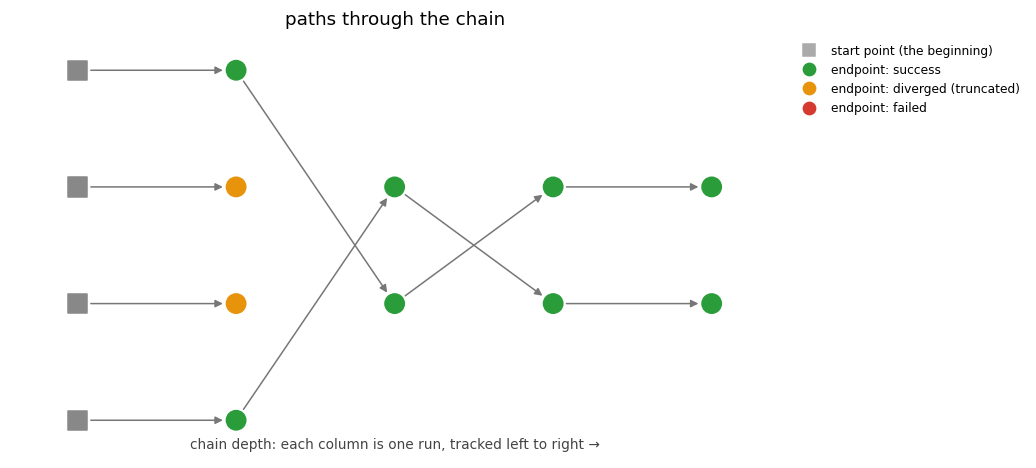
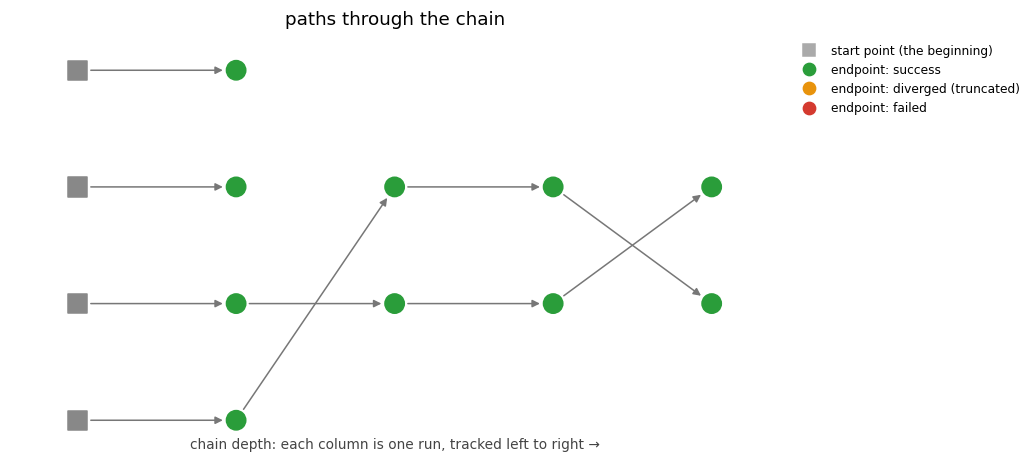
fix(endgames): security truncation only in the operating zone (cyclic-6 residual)
After dropping the pole-growth truncation, cyclic-6 still lost ONE finite solution
on ~half the seeds (155/156): one path converging to a finite root has an
endgame-boundary loop that transiently encloses a branch point, so its early Cauchy
mean is garbage-LARGE for a round or two -- and the endpoint security check truncated
on that garbage.

Fix (user's framing): only start security truncation IN THE OPERATING ZONE -- outside
it the loop may encircle a pole/branch point and the mean is untrustworthy, so its
norm means nothing.  The security max-norm check is now gated on in_operating_zone in
both variants; an out-of-zone round restarts the two-consecutive-rounds count.  A
genuinely-infinite endpoint is in-zone AND large (clean homogeneous convergence), so
it still truncates honestly; the transient garbage rounds are out-of-zone and skipped.

Consequence, per the user's semantics: at security level 0 an at-infinity path may
EITHER truncate (diverged) OR converge to an infinite endpoint (success, classified
infinite) -- both valid, non-deterministic.  Tests reframed to the robust invariant:
- path_status_vocabulary_is_success_diverged_failed: pins CoarsePathStatus directly
  (Success->success, GoingToInfinity/SecurityMaxNormReached->diverged, else->failed),
  so the diverged-not-failed regression holds regardless of what a solve produces.
- at_infinity_paths_are_success_or_diverged_never_failed: every path is an answer
[…]

diff --git a/core/include/bertini2/endgames/cauchy.hpp b/core/include/bertini2/endgames/cauchy.hpp
@@ -1307,11 +1307,9 @@ public:
 		// pole-annihilation case -- a Laurent pole whose Cauchy mean is a STATIONARY
 		// FINITE number, which no norm check can catch -- is handled separately by the
 		// pole-component operating-zone check below, so this check need only see honest
-		// infinity.  Initialized to 0 so the check never reads indeterminate values.
+		// infinity.  Tracked across consecutive IN-ZONE rounds only (see below);
+		// initialized to 0 so the check never reads indeterminate values.
 		RealT norm_of_dehom_prev(0), norm_of_dehom_latest(0);
-
-		if(this->SecuritySettings().level <= 0)
-			norm_of_dehom_prev = this->GetSystem().InfinityNormOfDehomogenized(prev_approx);
 
 		// Cycle-number consistency: refuse to accept a converged approximation until the cycle number
 		// has reported the SAME value for num_consecutive_same_cycle_number consecutive approximations.
@@ -1366,20 +1364,32 @@ public:
 				return SuccessCode::Success;
 			}
 
+			// Security truncation happens ONLY in the operating zone.  Outside it the
+			// loop may encircle a pole or branch point and the Cauchy mean is garbage --
+			// its norm means nothing, and truncating on it killed clean convergent paths
+			// (the cyclic-6 residual, 156 -> 155).  Inside the zone the mean is
+			// trustworthy: a genuinely-infinite endpoint is in-zone AND large (clean
+			// homogeneous convergence, the endpoint growing to infinity faster than any
+			// sample), so two consecutive IN-ZONE rounds above max_norm truncate honestly.
+			// An out-of-zone round restarts the two-consecutive count.
 			if (this->SecuritySettings().level <= 0)
-			{//the endpoint out of bounds twice running: the path is diverging; truncate.
-				norm_of_dehom_latest = this->GetSystem().InfinityNormOfDehomogenized(latest_approx);
-
-				if (norm_of_dehom_prev   > this->SecuritySettings().max_norm &&
-					norm_of_dehom_latest > this->SecuritySettings().max_norm  )
+			{
+				if (in_operating_zone)
 				{
-					NotifyObservers(SecurityMaxNormReached<EmitterType>(*this));
-					return SuccessCode::SecurityMaxNormReached;
+					norm_of_dehom_latest = this->GetSystem().InfinityNormOfDehomogenized(latest_approx);
+					if (norm_of_dehom_prev   > this->SecuritySettings().max_norm &&
+						norm_of_dehom_latest > this->SecuritySettings().max_norm  )
+					{
+						NotifyObservers(SecurityMaxNormReached<EmitterType>(*this));
+						return SuccessCode::SecurityMaxNormReached;
+					}
+					norm_of_dehom_prev = norm_of_dehom_latest;
 				}
+				else
+					norm_of_dehom_prev = RealT(0);   // out of zone: restart the count
 			}
 
 			prev_approx = latest_approx;
-			norm_of_dehom_prev = norm_of_dehom_latest;
 
 			auto advance_success = AdvanceTime<ComplexT>(target_time);
 			if (advance_success != SuccessCode::Success)
@@ -1460,12 +1470,11 @@ public:
 		//      The approximations live in BCT, so the per-iteration bookkeeping arithmetic is mpfr -- one
 		//      small vector op next to the tracking, which itself stays in the fast lane. ----
 		// the security check watches the extrapolated ENDPOINT for honest divergence to
-		// infinity (which grows faster than any finite loop sample); acceptance is gated
-		// on the pole-component operating-zone measurement, which handles the
-		// finite-mean pole case -- see RunImpl for the full reasoning
+		// infinity (which grows faster than any finite loop sample), but ONLY in the
+		// operating zone (a trustworthy mean) -- see RunImpl for the full reasoning.
+		// Acceptance is gated on the same operating-zone measurement (the finite-mean
+		// pole case).  Tracked across consecutive in-zone rounds; starts at 0.
 		RealT norm_of_dehom_prev(0), norm_of_dehom_latest(0);
-		if (this->SecuritySettings().level <= 0)
-			norm_of_dehom_prev = this->GetSystem().InfinityNormOfDehomogenized(this->previous_approximation_);
 
 		unsigned prev_cycle = 0, same_cycle_count = 0;
 
@@ -1499,19 +1508,26 @@ public:
 				return SuccessCode::Success;
 			}
 
+			// security truncation ONLY in the operating zone (a trustworthy mean); an
+			// out-of-zone round restarts the two-consecutive count.  See RunImpl.
 			if (this->SecuritySettings().level <= 0)
 			{
-				norm_of_dehom_latest = this->GetSystem().InfinityNormOfDehomogenized(this->final_approximation_);
-				if (norm_of_dehom_prev   > this->SecuritySettings().max_norm &&
-				    norm_of_dehom_latest > this->SecuritySettings().max_norm)
+				if (in_operating_zone)
 				{
-					NotifyObservers(SecurityMaxNormReached<EmitterType>(*this));
-					return SuccessCode::SecurityMaxNormReached;
+					norm_of_dehom_latest = this->GetSystem().InfinityNormOfDehomogenized(this->final_approximation_);
+					if (norm_of_dehom_prev   > this->SecuritySettings().max_norm &&
+					    norm_of_dehom_latest > this->SecuritySettings().max_norm)
+					{
+						NotifyObservers(SecurityMaxNormReached<EmitterType>(*this));
+						return SuccessCode::SecurityMaxNormReached;
+					}
+					norm_of_dehom_prev = norm_of_dehom_latest;
 				}
+				else
+					norm_of_dehom_prev = RealT(0);   // out of zone: restart the count
 			}
 
 			this->previous_approximation_ = this->final_approximation_;
-			norm_of_dehom_prev = norm_of_dehom_latest;
 
 			auto advance_code = AdvanceTimeAMP(target_time);
 			if (advance_code != SuccessCode::Success)

diff --git a/core/test/nag_algorithms/zero_dim_records.cpp b/core/test/nag_algorithms/zero_dim_records.cpp
@@ -301,16 +301,36 @@ BOOST_AUTO_TEST_CASE(different_seed_is_a_different_ask)
 	BOOST_CHECK_EQUAL(runs, 2u);   // two asks, two run headers, one directory
 }
 
-// Named regression (user, 2026-07-03): a path the endgame truncates near infinity is a
-// VERDICT, not a failure -- the records must say "diverged", never "failed", or a
-// cyclic5 audit shows 50 phantom failures.  And diverged paths recall like any other:
-// every tracked path is in the store, so fails/divergences are auditable and memoized.
-BOOST_AUTO_TEST_CASE(diverged_paths_are_recorded_as_diverged_not_failed)
+// The coarse status VOCABULARY, pinned directly (independent of which paths a solve
+// happens to truncate): a path is `success` (converged -- to a finite root OR to an
+// infinite endpoint), `diverged` (went to infinity -- a clean GoingToInfinity verdict
+// or a security truncation near infinity), or `failed` (the tracker gave up).  A
+// truncated path must be `diverged`, never `failed` (regression: a cyclic5 audit once
+// showed 50 phantom failures from mis-bucketing truncations).
+BOOST_AUTO_TEST_CASE(path_status_vocabulary_is_success_diverged_failed)
 {
-	auto const dir = FreshDir("diverged");
+	using records::CoarsePathStatus;
+	BOOST_CHECK_EQUAL(CoarsePathStatus(SuccessCode::Success), "success");
+	BOOST_CHECK_EQUAL(CoarsePathStatus(SuccessCode::GoingToInfinity), "diverged");
+	BOOST_CHECK_EQUAL(CoarsePathStatus(SuccessCode::SecurityMaxNormReached), "diverged");
+	// anything else the tracker/endgame reports is a failure to converge
+	BOOST_CHECK_EQUAL(CoarsePathStatus(SuccessCode::FailedToConverge), "failed");
+	BOOST_CHECK_EQUAL(CoarsePathStatus(SuccessCode::HigherPrecisionNecessary), "failed");
+}
+
+// Named regression (user, 2026-07-03..07): every tracked path near infinity is an
+// ANSWER, never a `failed`.  At security level 0, an at-infinity path may EITHER
+// truncate (`diverged`) OR converge to an infinite endpoint (`success`, classified
+// infinite) -- both outcomes are valid and which happens depends on the endgame's
+// exact convergence.  So the invariant is robust: no path is lost or `failed`, every
+// path is success-or-diverged, and every path recalls.
+BOOST_AUTO_TEST_CASE(at_infinity_paths_are_success_or_diverged_never_failed)
+{
+	auto const dir = FreshDir("at_infinity");
 
 	// {x*y - 1, x^2 - 1}: total degree 4 paths, exactly 2 finite solutions
-	// ((1,1) and (-1,-1)) -- the other 2 paths head to infinity
+	// ((1,1) and (-1,-1)) -- the other 2 head to infinity (each either truncates as
+	// diverged, or converges to an infinite endpoint recorded as success)
 	SetGlobalSeed(42);
 	auto x = Variable::Make("x");
 	auto y = Variable::Make("y");
@@ -321,23 +341,15 @@ BOOST_AUTO_TEST_CASE(diverged_paths_are_recorded_as_diverged_not_failed)
 
 	ZD zd(sys);
 	zd.DefaultSetup();
-	// The security check watches the dehomogenized ENDPOINT for divergence to infinity;
-	// the two at-infinity paths of this patched solve have endpoints genuinely at
-	// infinity, so they truncate as `diverged`.  A tightened max_norm (50) makes the
-	// verdict robust regardless of the endgame's exact convergence path.  This test is
-	// about the diverged-vs-failed VOCABULARY; settings are ask identity, so the recall
-	// rerun below must set the same value.
-	endgame::SecurityConfig sec;
-	sec.max_norm = 50;
-	zd.GetEndgame().Set(sec);
 	zd.RecordTo(std::make_shared<records::OutputDirectory>(dir));
 	zd.Solve();
 
-	unsigned successes = 0, diverged = 0, failed = 0;
+	unsigned paths = 0, successes = 0, diverged = 0, failed = 0;
 	for (auto const& rec : zd.Records()->ResultsOf(zd.RecordsRunId()))
 	{
 		if (std::string(rec.at("kind").as_string()) != "path")
 			continue;
+		++paths;
 		auto const status = std::string(rec.at("status").as_string());
 		if (status == "success") ++successes;
 		if (status == "diverged") ++diverged;
@@ -346,11 +358,12 @@ BOOST_AUTO_TEST_CASE(diverged_paths_are_recorded_as_diverged_not_failed)
 		BOOST_CHECK(rec.contains("endgame_success_code_name"));
 		BOOST_CHECK(rec.contains("pre_endgame_success_code_name"));
 	}
-	BOOST_CHECK_EQUAL(successes, 2u);
-	BOOST_CHECK_EQUAL(diverged, 2u);
-	BOOST_CHECK_EQUAL(failed, 0u);
+	BOOST_CHECK_EQUAL(paths, 4u);            // every total-degree path is recorded
+	BOOST_CHECK_EQUAL(failed, 0u);           // none FAILED -- the load-bearing invariant
+	BOOST_CHECK_EQUAL(successes + diverged, 4u);   // each is an answer: converged or diverged
+	BOOST_CHECK_GE(successes, 2u);           // at least the two finite roots converge
 
-	// diverged paths are answers: a rerun recalls ALL of them, recomputing none
+	// every path is an answer in the store: a rerun recalls ALL of them, computing none
 	SetGlobalSeed(42);
 	auto x2 = Variable::Make("x");
 	auto y2 = Variable::Make("y");
@@ -360,7 +373,6 @@ BOOST_AUTO_TEST_CASE(diverged_paths_are_recorded_as_diverged_not_failed)
 	sys_again.AddVariableGroup(VariableGroup{x2, y2});
 	ZD again(sys_again);
 	again.DefaultSetup();
-	again.GetEndgame().Set(sec);   // same ask: settings are part of the recall identity
 	again.RecordTo(std::make_shared<records::OutputDirectory>(dir));
 	again.Solve();
 	BOOST_CHECK_EQUAL(again.NumPathsRecalled(), 4u);

diff --git a/python/examples/chained_homotopies.py b/python/examples/chained_homotopies.py
@@ -16,11 +16,13 @@ and the whole chain drawn left to right::
     python chained_homotopies.py --plot chain.png      # also draw the progression
 
 The family here is deliberately tiny but NOT all sunshine: its first solve has four
-paths of which two are TRUNCATED (the endgame's security check cuts them off as they
-flee toward infinity -- a verdict, not a failure), so the picture shows lineages that
-die at the first column and lineages that survive the whole chain.  Rerunning the
-script is (nearly) instant: every solve is ensure-answered, so recorded paths recall
-instead of recomputing.
+paths of which only two have a finite root to reach -- the other two head to infinity.
+Each such path is an ANSWER, not a failure: it either converges to an infinite endpoint
+or is truncated near infinity (`diverged`); either way it is recorded, and only the
+finite solutions are carried forward.  So the picture shows lineages that end at the
+first column and lineages that survive the whole chain.  Rerunning the script is
+(nearly) instant: every solve is ensure-answered, so recorded paths recall instead of
+recomputing.
 """
 
 import argparse
@@ -56,12 +58,12 @@ def main():
 
     # the root: an ordinary solve (total-degree start; provenance bottoms out at
     # canonical start labels).  Four paths -- and only two finite roots, so two paths
-    # get TRUNCATED near infinity: recorded as `diverged`, an answer in itself.
+    # head to infinity (each an answer: an infinite endpoint, or truncated as diverged).
     results = [pb.solve(members[0], seed=42)]
 
     # each further member: continue the previous solutions through a blend homotopy.
-    # Only the FINITE solutions are carried forward -- the diverged paths' lineages
-    # simply end, which is exactly what the picture shows.
+    # Only the FINITE solutions are carried forward -- the at-infinity lineages simply
+    # end, which is exactly what the picture shows.
     for previous, target in zip(members, members[1:]):
         homotopy = blend_homotopy(target, previous)
         results.append(pb.solve(target, homotopy=homotopy, start=results[-1], seed=42))
@@ -79,10 +81,10 @@ def main():
     print('\nthe tracked paths (statuses and where each one started):\n')
     tracks = pb.tracks()
     print(tracks[['run', 'index', 'status', 'outcome', 'start_kind']].to_string(index=False))
-    # the first solve's two extra total-degree paths were truncated near infinity;
-    # everything that had somewhere to go, went there
-    assert (tracks['status'] == 'diverged').sum() == 2
-    assert (tracks['status'] == 'success').sum() == len(tracks) - 2
+    # every tracked path is an ANSWER -- a finite root, an infinite endpoint, or a
+    # truncation near infinity -- never a failure; the finite ones are what chain onward
+    assert (tracks['status'] == 'failed').sum() == 0
+    assert len(tracks) == 4 + 2 + 2 + 2   # total-degree root, then three chained hops
 
     # the provenance graph: every path an edge from its start to its endpoint
     graph = pb.provenance_graph()

diff --git a/python/docs/source/tutorials/chained_homotopies/index.rst b/python/docs/source/tutorials/chained_homotopies/index.rst
@@ -12,9 +12,10 @@ This tutorial builds a small chain from the family :math:`\{x^2 - a^2,\; xy - 1\
 for growing :math:`a`, and then reads its own records back with the navigation tools.
 The family is deliberately not all sunshine: each member has just **two** finite roots
 (:math:`(\pm a, \pm 1/a)`) but total degree four, so the first solve tracks four paths
-and two of them have nowhere finite to go — the endgame's security check **truncates**
-them as they flee toward infinity.  In the records that is the verdict ``diverged``:
-an answer, not a failure, and those lineages simply end.  The complete script is
+and two of them have nowhere finite to go — they head to infinity.  Each is an
+**answer, not a failure**: it either converges to an infinite endpoint or is truncated
+near infinity (``diverged``); either way it is recorded, and only the finite solutions
+are carried forward, so those lineages simply end.  The complete script is
 :download:`chained_homotopies.py <../../../../examples/chained_homotopies.py>`:
 
 .. literalinclude:: ../../../../examples/chained_homotopies.py
@@ -65,15 +66,16 @@ paths flowing rightward from their origins (squares) through every run, colored 
 verdict (green success, orange diverged, red failed):
 
 .. image:: chain_progression.png
-   :alt: paths flowing left to right through a four-run chain; two lineages are
-         truncated at the first run and two survive to the end
+   :alt: paths flowing left to right through a four-run chain; two lineages end at
+         the first run and two survive to the end
    :align: center
 
-Read it like a family tree.  Four total-degree start points enter the first run; the
-two **orange** endpoints are the truncated paths — they have no outgoing edges,
-because a diverged point is an endpoint of knowledge, not a start for more tracking —
-and only the two **green** lineages are carried forward, run after run, to the final
-member.  ``solve(start=...)`` does that filtering for you: it chains a result's
+Read it like a family tree.  Four total-degree start points enter the first run; two
+of them go to infinity (converging to an infinite endpoint, or truncated as
+``diverged`` — either way an answer, and shown coloured by that verdict).  They have
+no outgoing edges — an infinite or diverged point is an endpoint of knowledge, not a
+start for more tracking — and only the two finite lineages are carried forward, run
+after run, to the final member.  ``solve(start=...)`` does that filtering for you: it chains a result's
 *finite solutions*.  The same discipline applies to points you would rather not
 continue for other reasons (a singular endpoint, say, spotted by its
 ``cycle_num``/condition number in :func:`bertini.tracks` or ``is_singular`` in the
